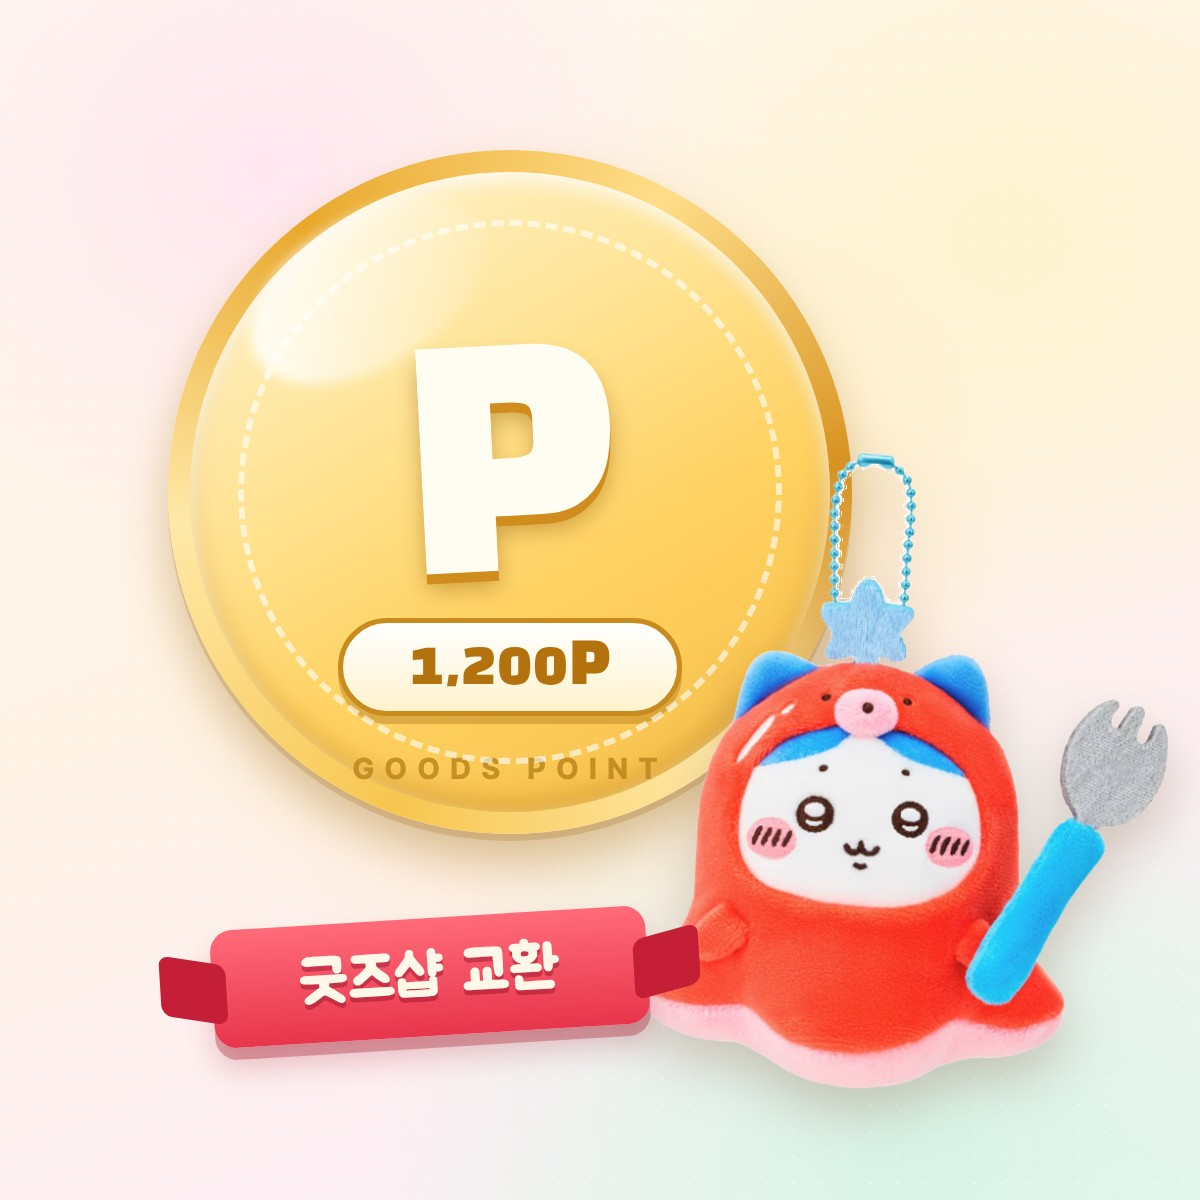
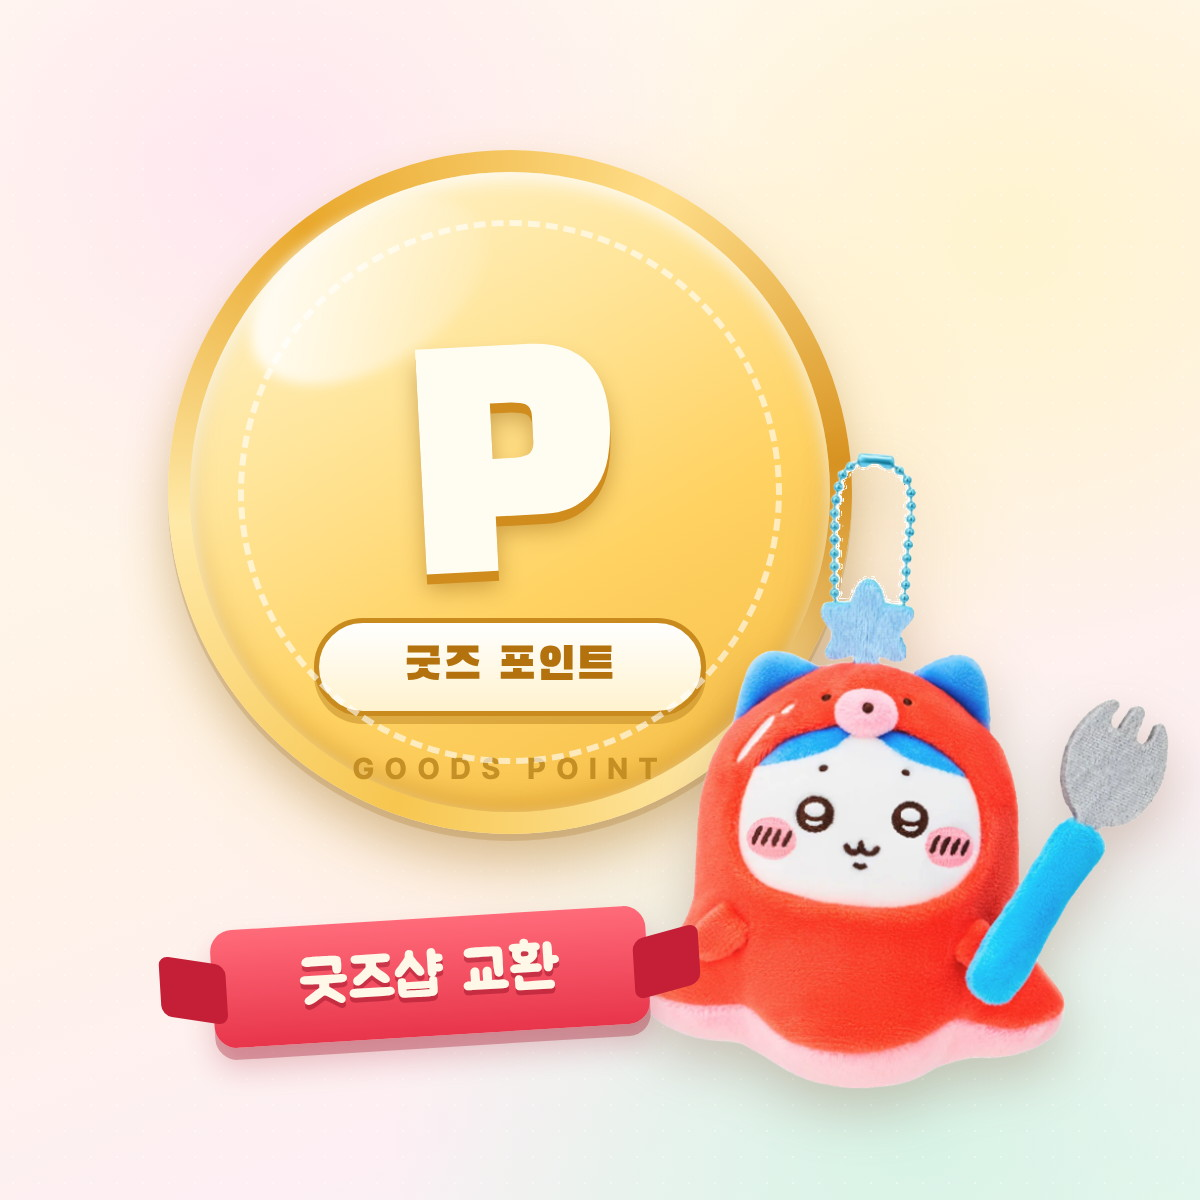
v4.4.0 크리스마스 판 9,900원·990P 잔여 표기 마무리 — P상 카드 그림을 포인트별로(p9900 990P·p15500 1,550P·p 기본 카드), 기본 포인트 카드만 포인트 값에 맞춰 고르는 pointImageFor/tierImageOf, scrubPointCopy 가 P상 그림 경로도 동기화, DB 정리 SQL(kujiking_v440_point_image_990p.sql) 추가

Changed region(s): [[0.3392, 0.5242, 0.5242, 0.5858], [0.5242, 0.4933, 0.5858, 0.6167], [0.2467, 0.4933, 0.3083, 0.6167]]

diff --git a/assets/app.js b/assets/app.js
@@ -1,5 +1,5 @@
 /* =========================================================
-   쿠지킹 KUJIKING — app.js  (v4.3.10, vanilla · no build step)
+   쿠지킹 KUJIKING — app.js  (v4.4.0, vanilla · no build step)
    ---------------------------------------------------------
    · 해시 라우팅: #/  #/board/:id  #/my  #/winners  #/fairness  #/admin
    · 회원가입/로그인, 내 쿠폰함, 내 보관함(배송·포인트 전환),
@@ -124,7 +124,7 @@
   }
   var h = escapeHtml;
   /* 실물 커버 등 상품 이미지 캐시 갱신용 버전 (커버 교체 시 올린다) */
-  var COVER_VER = '4.3.9';
+  var COVER_VER = '4.4.0';
   /* 판마다 지정한 스토어 링크가 없을 때 쓰는 기본 스마트스토어 상품 주소 */
   var DEFAULT_STORE_URL = STORE_PRODUCT_URL;
   /* P상(굿즈 포인트) 카드 기본 이미지 — 판에 P상 이미지가 없으면 이 이미지를 쓴다 */
@@ -1107,6 +1107,25 @@
   function isPointTierRow(t) {
     return !!t && (!!t.pointOnly || String(t.grade || '').toUpperCase() === 'P');
   }
+  /* v4.4.0 — P상 카드 그림은 포인트 숫자가 그림 안에 박혀 있다.
+     판에 직접 넣은 다른 그림은 그대로 쓰고, 기본 포인트 카드(assets/products/point/)만
+     포인트 값에 맞는 그림으로 골라 준다. (예전 p15500.jpg 가 실제로는 1,200P 로 그려져
+     있던 문제 때문에 숫자와 그림이 어긋나지 않게 한다) */
+  function isDefaultPointImage(url) {
+    return !url || /^(?:\.\/)?assets\/products\/point\//.test(String(url));
+  }
+  function pointImageFor(points) {
+    var p = Number(points) || 0;
+    if (p === 990) return 'assets/products/point/p9900.jpg';
+    if (p === 1550) return 'assets/products/point/p15500.jpg';
+    return POINT_IMG;
+  }
+  function tierImageOf(t) {
+    if (!t) return '';
+    var img = t.image ? String(t.image) : '';
+    if (isPointTierRow(t) && isDefaultPointImage(img)) return pointImageFor(t.points);
+    return img;
+  }
   function pointLabelFor(reward) { return '굿즈 포인트 ' + fmt(reward) + 'P'; }
   function pointDescFor(tier, board) {
     var p = Number(tier && tier.points) || pointRewardOf(board);
@@ -1125,6 +1144,8 @@
       t.points = reward;
       t.label = pointLabelFor(reward);
       t.desc = pointDescFor(t, board);
+      /* 기본 포인트 카드 그림이면 그림 안 숫자도 포인트에 맞춘다 (v4.4.0) */
+      if (isDefaultPointImage(t.image)) t.image = pointImageFor(reward);
     });
     var m = board.manual;
     if (m && Array.isArray(m.notes)) {
@@ -4420,12 +4441,12 @@
       var isP = String(t.grade).toUpperCase() === 'P' || !!t.pointOnly;
       /* v4.3.5 — 등급 현황 표를 걷어내고 카드 하나에 (남은 수)/(전체 수)와 품절을 담는다 */
       var stock = out ? '품절' : fmt(left) + '/' + fmt(count);
+      var media = tierImageOf(t);
       return '<button type="button" class="prize-card' + (out ? ' is-out is-soldout' : '') + (isP ? ' is-point' : '') + '" data-action="zoom-tier" data-grade="' + h(t.grade) + '" title="' + h(t.label + ' · ' + (out ? '품절' : '남은 ' + fmt(left) + ' / 전체 ' + fmt(count))) + '">' +
           '<span class="prize-media">' +
-            (t.image ? '<img src="' + h(coverSrc(t.image)) + '" alt="' + h(t.label) + '" loading="lazy" decoding="async">'
-                     : (isP ? '<img src="' + h(coverSrc(POINT_IMG)) + '" alt="P상 굿즈 포인트 ' + fmt(t.points) + 'P" loading="lazy" decoding="async">'
-                            : '<span class="prize-media-empty" style="color:' + gradeColor(t.grade) + '">' + h(t.grade) + '</span>')) +
-            (t.image ? '' : '<span class="rank-badge grade-' + h(String(t.grade).toLowerCase()) + '">' + h(t.grade) + '상</span>') +
+            (media ? '<img src="' + h(coverSrc(media)) + '" alt="' + h(t.label) + '" loading="lazy" decoding="async">'
+                   : '<span class="prize-media-empty" style="color:' + gradeColor(t.grade) + '">' + h(t.grade) + '</span>') +
+            (media ? '' : '<span class="rank-badge grade-' + h(String(t.grade).toLowerCase()) + '">' + h(t.grade) + '상</span>') +
             (left === 0 ? '<span class="prize-out">품절</span>' : '') +
           '</span>' +
           '<span class="prize-body">' +
@@ -4527,7 +4548,7 @@
     var isLast = grade === 'LAST';
     var t = isLast ? null : tierOf(board, grade);
     if (!isLast && !t) return;
-    var image = isLast ? board.lastOneImage : t.image;
+    var image = isLast ? board.lastOneImage : tierImageOf(t);
     var label = isLast ? (board.lastOneLabel || '라스트원상') : t.label;
     var desc = isLast ? board.lastOneDesc : t.desc;
     var badgeCls = isLast ? 'grade-last' : ('grade-' + String(grade).toLowerCase());
@@ -4543,8 +4564,8 @@
     openModal('' +
       '<div class="zoom-view' + (isP ? ' is-point' : '') + '">' +
         '<div class="zoom-media">' +
-          (image ? '<img src="' + h(image) + '" alt="' + h(label) + '">'
-                 : (isP ? '<img src="' + h(coverSrc(POINT_IMG)) + '" alt="P상 굿즈 포인트 ' + fmt(t.points) + 'P">'
+          (image ? '<img src="' + h(!isLast && isDefaultPointImage(image) ? coverSrc(image) : image) + '" alt="' + h(label) + '">'
+                 : (isP ? '<img src="' + h(coverSrc(pointImageFor(t.points))) + '" alt="P상 굿즈 포인트 ' + fmt(t.points) + 'P">'
                         : '<div class="zoom-empty">이미지 준비 중</div>')) +
           (image ? '' : '<span class="rank-badge ' + badgeCls + ' lg">' + h(badgeTxt) + '</span>') +
         '</div>' +

diff --git a/index.html b/index.html
@@ -22,7 +22,7 @@
 <link rel="stylesheet" href="https://fonts.googleapis.com/css2?family=Black+Han+Sans&family=Do+Hyeon&display=swap">
 <link rel="stylesheet" href="https://cdn.jsdelivr.net/gh/orioncactus/pretendard@v1.3.9/dist/web/variable/pretendardvariable-dynamic-subset.min.css">
 <link rel="preconnect" href="https://t1.kakaocdn.net" crossorigin>
-<link rel="stylesheet" href="assets/styles.css?v=4.3.10">
+<link rel="stylesheet" href="assets/styles.css?v=4.4.0">
 <script type="application/ld+json">
 {"@context":"https://schema.org","@type":"WebSite","name":"쿠지킹","alternateName":"KUJIKING","url":"https://kujiking.co.kr/"}
 </script>
@@ -877,7 +877,7 @@
       <button type="button" data-action="open-policy" data-policy="probability">확률 공시</button>
     </nav>
     <p class="footer-note">본 상품은 무작위 추첨 상품입니다. 교환 코드 사용(개봉) 후에는 청약철회가 제한됩니다. <b>만 19세 이상 성인 전용 서비스</b>로, 미성년자는 이용할 수 없습니다.</p>
-    <p class="footer-copy">© 2026 쿠지킹. All rights reserved. · <span class="proto-tag" id="protoTag">v4.3.10</span></p>
+    <p class="footer-copy">© 2026 쿠지킹. All rights reserved. · <span class="proto-tag" id="protoTag">v4.4.0</span></p>
   </div>
 </footer>
 
@@ -914,6 +914,6 @@
 </div>
 
 <script src="assets/config.js?v=3.0.2"></script>
-<script src="assets/app.js?v=4.3.10" defer></script>
+<script src="assets/app.js?v=4.4.0" defer></script>
 </body>
 </html>

diff --git a/README.md b/README.md
@@ -10,6 +10,21 @@
 
 ---
 
+## v4.4.0 — 크리스마스 판 9,900원·990P 잔여 표기 마무리 (P상 카드 그림까지)
+
+- **요청**: 기남 님 "크리스마스 판에 남은 `1,550P`·`1장 가격 15,500원`·`p15500.jpg` 도 9,900원·990P 로" (11-27).
+- **P상 카드 그림**: 코인 안에 숫자가 **그림으로 박혀 있는데**, 지금까지 쓰던 `p15500.jpg` 는 실제로 **1,200P** 로 그려져 있었습니다(파일 이름과 내용 불일치). 포인트 숫자를 인자로 받는 생성기(`work/kujiking-pcard/gen_point.py`, 기존 카드와 같은 HTML 템플릿)로 다시 그렸습니다.
+  - `assets/products/point/p9900.jpg` — **990P** (신규 · 크리스마스 판)
+  - `assets/products/point/p15500.jpg` — **1,550P** (교체 · 갸루 판)
+  - `assets/products/point/p.jpg` — 숫자 대신 `굿즈 포인트` (기본 카드 · 그림이 없는 판/굿즈 주문 썸네일용)
+- **화면**: P상 카드 그림을 포인트 값에 맞춰 고르는 `pointImageFor()`/`tierImageOf()` 추가 — 판에 직접 넣은 다른 그림은 그대로 두고, 기본 포인트 카드(`assets/products/point/…`)만 **990P→p9900 / 1,550P→p15500 / 그 밖→p.jpg** 로 읽습니다. `scrubPointCopy()` 도 P상 그림 경로를 같이 맞추므로 관리자 [판 수정]에서 저장하면 DB 경로도 새 그림으로 남습니다.
+- **DB**: `attachments/2026-11-27/kujiking_xmas_fix_9900_990p.txt`(= `supabase/kujiking_v440_point_image_990p.sql`) 한 번으로
+  판의 P상 `points`·`label`·`desc`·`image`, 설명서 `1장 가격`·P상 유의사항, `app_settings.board_events`(오픈 이벤트 배지)를 한 번에 맞춥니다.
+- **검증**: `esprima` 문법 통과, 로컬 서버 + 실데이터(Supabase `public_boards`)로 크리스마스 판 P카드 `p9900.jpg?v=4.4.0`·`굿즈 포인트 990P`, 갸루 판 `p15500.jpg`·`1,550P` 렌더 확인, 판 상세 본문에 `1,550P`·`15,500원`·`1,200P` **0건**.
+- `index.html`·`assets/app.js` 자산 버전 **4.4.0**, `protoTag` v4.4.0, `COVER_VER` **4.4.0**(P상 카드 그림 캐시 갱신).
+
+---
+
 ## v4.3.10 — 크리스마스 치이카와 9,900원 오픈 이벤트 팝업 (홈 첫 진입)
 
 - **요청**: 기남 님 "팝업도 띄어줘 오픈이벤트 9900원" (ChatGPT 로 만든 9,900원 오픈 이벤트 포스터 사용).
